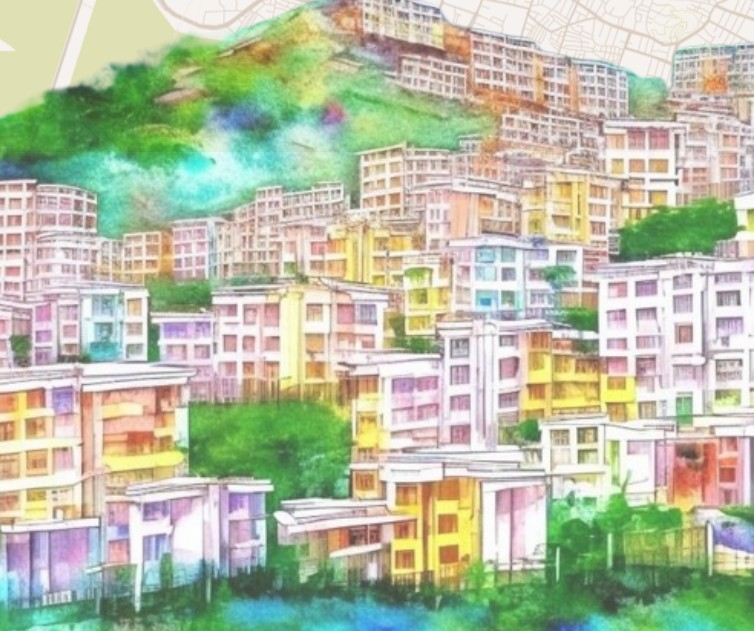
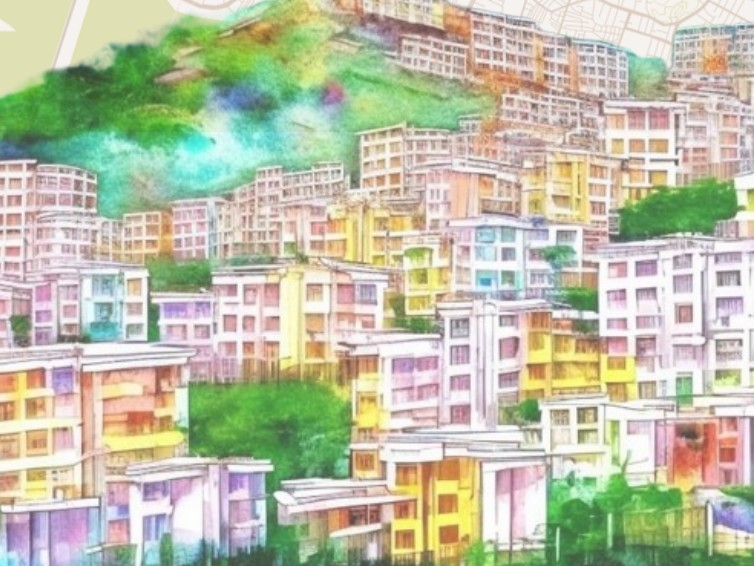
Rewrite About bio, declutter hero, fix grade cell and project crop
- Rewrite About section bio (EN + DE) per Shravya's new draft: cleaner
  intro, shorter middle paragraph, new paragraph about moving to
  Germany and volunteering. Title-cases "Urban and Regional Planner"
  and correctly capitalizes German nouns throughout.
- Declutter the hero: drop the redundant degree subtitle line (already
  covered in About/Education) and shorten the tagline to one
  statement, inspired by gruppef.com's minimal hero pattern.
- Split the Bachelor's grade into a primary value plus a smaller
  secondary "German system" note instead of cramming both into one
  string, so the grade column no longer wraps awkwardly.
- Recrop the Urban Uplift project thumbnail to the card's actual 4:3
  aspect ratio; the old crop was noticeably more square, so
  object-fit:cover was cutting more off top/bottom than on the other
  three cards.

diff --git a/src/app/data/portfolio.data.ts b/src/app/data/portfolio.data.ts
@@ -42,9 +42,7 @@ const EN: PortfolioContent = {
   footer: 'M.Sc. Environmental Planning · TU Berlin',
   hero: {
     eyebrow: '52.5170° N · 13.3889° E · Berlin',
-    title: 'M.Sc. Environmental Planning, Technische Universität Berlin',
-    tagline:
-      'Urban and regional planner working across GIS analysis, participatory urban development and climate adaptation, with one question underneath all of it: what makes a city healthy and livable for the people already living in it?',
+    tagline: 'Urban and Regional Planner, shaping cities that work for the people already living in them.',
     cta1: 'Get in touch',
     cta2: 'See experience'
   },
@@ -53,9 +51,9 @@ const EN: PortfolioContent = {
     caption: 'Berlin, 2026',
     photoFallback: 'Portrait coming soon',
     paras: [
-      'I am an urban and regional planner working at the intersection of spatial analysis and public participation. My training spans land-use planning, GIS analysis, participatory urban development and climate adaptation.',
-      'Currently I am a student assistant at the Institute of Urban and Regional Planning at TU Berlin, where I am completing an M.Sc. in Environmental Planning. Before Berlin I digitized planning and zoning regulation for jurisdictions across the United States and Australia, and built parcel-level GIS layers for land use and planning requirements.',
-      "My Bachelor's thesis took a participative approach to inner-city regeneration in Anantapur, India. I continue this work as a conference paper on community participation in regeneration processes."
+      'I am an Urban and Regional Planner, currently pursuing my M.Sc. in Environmental Planning at TU Berlin. My interests lie in spatial analysis, neighbourhood development and public participation, with a study focus spanning land-use planning, GIS analysis, participatory urban development and climate adaptation.',
+      'Alongside my studies, I work as a student assistant at the Institute of Urban and Regional Planning at TU Berlin. Before moving to Germany, I worked as a GIS analyst digitizing planning and zoning regulations across the US and Australia.',
+      "I moved to Germany in April 2025 and have been practicing my German ever since, working in restaurants, trying language tandems, and volunteering (you can read more about that further down this page). I'm highly motivated and a quick learner."
     ],
     facts: [
       { k: 'Based in', v: 'Berlin, Germany' },
@@ -135,7 +133,8 @@ const EN: PortfolioContent = {
         degree: 'Bachelor of Planning (Urban and Regional Planning)',
         school: 'School of Planning and Architecture, Vijayawada, India',
         note: 'Silver medalist, 2nd rank. Thesis: “A Participative Approach toward Inner City Regeneration: A Case Study of Anantapur Municipal Corporation”.',
-        grade: '9.08 / 10 (≈ 1.4, German grading system)'
+        grade: '9.08 / 10',
+        gradeNote: '≈ 1.4 (German system)'
       }
     ]
   },
@@ -276,9 +275,7 @@ const DE: PortfolioContent = {
   footer: 'M.Sc. Umweltplanung · TU Berlin',
   hero: {
     eyebrow: '52.5170° N · 13.3889° O · Berlin',
-    title: 'M.Sc. Umweltplanung, Technische Universität Berlin',
-    tagline:
-      'Stadt- und Regionalplanerin mit Schwerpunkten in GIS-Analyse, partizipativer Stadtentwicklung und Klimaanpassung, mit einer Frage im Hintergrund: Was macht eine Stadt für die Menschen, die schon dort leben, gesund und lebenswert?',
+    tagline: 'Stadt- und Regionalplanerin, die Städte mitgestaltet, die für die Menschen funktionieren, die schon dort leben.',
     cta1: 'Kontakt aufnehmen',
     cta2: 'Erfahrung ansehen'
   },
@@ -287,9 +284,9 @@ const DE: PortfolioContent = {
     caption: 'Berlin, 2026',
     photoFallback: 'Porträt folgt in Kürze',
     paras: [
-      'Ich bin Stadt- und Regionalplanerin und arbeite an der Schnittstelle von räumlicher Analyse und Bürgerbeteiligung. Meine Ausbildung umfasst Flächennutzungsplanung, GIS-Analyse, partizipative Stadtentwicklung und Klimaanpassung.',
-      'Derzeit bin ich studentische Mitarbeiterin am Institut für Stadt- und Regionalplanung der TU Berlin und absolviere dort meinen M.Sc. Umweltplanung. Vor Berlin habe ich Planungs- und Baunutzungsvorschriften für Kommunen in den USA und Australien digitalisiert und GIS-Layer auf Flurstücksebene für Flächennutzung und Planungsanforderungen aufgebaut.',
-      'Meine Bachelorarbeit verfolgte einen partizipativen Ansatz zur Innenstadterneuerung in Anantapur, Indien. Diese Arbeit führe ich als Konferenzbeitrag zur Bürgerbeteiligung in Erneuerungsprozessen weiter.'
+      'Ich bin Stadt- und Regionalplanerin und studiere derzeit meinen M.Sc. in Umweltplanung an der TU Berlin. Meine Interessen liegen in der räumlichen Analyse, der Nachbarschaftsentwicklung und der Bürgerbeteiligung, mit einem Studienschwerpunkt auf Flächennutzungsplanung, GIS-Analyse, partizipativer Stadtentwicklung und Klimaanpassung.',
+      'Neben dem Studium arbeite ich als studentische Mitarbeiterin am Institut für Stadt- und Regionalplanung der TU Berlin. Vor meinem Umzug nach Deutschland war ich als GIS-Analystin tätig und digitalisierte Planungs- und Baunutzungsvorschriften in den USA und Australien.',
+      'Ich bin im April 2025 nach Deutschland gezogen und übe seitdem mein Deutsch, unter anderem durch Arbeit in der Gastronomie, Sprachtandems und ehrenamtliches Engagement (mehr dazu weiter unten auf dieser Seite). Ich bin hochmotiviert und lerne schnell.'
     ],
     facts: [
       { k: 'Standort', v: 'Berlin, Deutschland' },
@@ -369,7 +366,8 @@ const DE: PortfolioContent = {
         degree: 'Bachelor of Planning (Stadt- und Regionalplanung)',
         school: 'School of Planning and Architecture, Vijayawada, Indien',
         note: 'Silbermedaille, 2. Platz des Jahrgangs. Abschlussarbeit: „A Participative Approach toward Inner City Regeneration: A Case Study of Anantapur Municipal Corporation“.',
-        grade: '9,08 / 10 (≈ 1,4 im deutschen Notensystem)'
+        grade: '9,08 / 10',
+        gradeNote: '≈ 1,4 (deutsches System)'
       }
     ]
   },

diff --git a/src/app/components/education/education.component.scss b/src/app/components/education/education.component.scss
@@ -1,6 +1,6 @@
 .edu-row {
   display: grid;
-  grid-template-columns: minmax(0, 190px) minmax(0, 1fr) minmax(0, 150px);
+  grid-template-columns: minmax(0, 190px) minmax(0, 1fr) minmax(0, 180px);
   gap: 32px;
   padding: 26px 0;
   border-top: 1px solid var(--rule);
@@ -12,4 +12,15 @@
 .row-date { font-size: 11px; letter-spacing: .16em; text-transform: uppercase; color: var(--olive-dark); font-weight: 600; font-variant-numeric: tabular-nums; padding-top: 5px; }
 .row-org { margin: 0 0 8px; font-size: 14px; color: var(--ink-60); line-height: 1.5; }
 .row-note { margin: 0; font-family: var(--font-heading); font-size: 15px; line-height: 1.55; color: var(--ink); max-width: 72ch; }
-.row-grade { font-family: var(--font-heading); font-size: 15px; color: var(--ink); font-variant-numeric: tabular-nums; padding-top: 4px; }
+.row-grade {
+  display: flex;
+  flex-direction: column;
+  gap: 3px;
+  font-family: var(--font-heading);
+  font-size: 15px;
+  color: var(--ink);
+  font-variant-numeric: tabular-nums;
+  padding-top: 4px;
+  white-space: nowrap;
+}
+.grade-note { font-family: var(--font-body); font-size: 11px; letter-spacing: .02em; color: var(--ink-60); white-space: nowrap; }

diff --git a/src/app/components/hero/hero.component.scss b/src/app/components/hero/hero.component.scss
@@ -39,23 +39,15 @@ section {
   max-width: 16ch;
 }
 
-.hero-band { height: 1px; background: var(--rule); max-width: 640px; margin: 0 0 22px; }
-
-.hero-subtitle {
-  font-family: var(--font-heading);
-  font-size: clamp(19px, 2.2vw, 24px);
-  line-height: 1.35;
-  color: var(--ink);
-  margin: 0 0 14px;
-  max-width: 34ch;
-}
+.hero-band { height: 1px; background: var(--rule); max-width: 640px; margin: 0 0 26px; }
 
 .hero-tagline {
-  font-size: 16px;
-  line-height: 1.65;
-  color: var(--ink-60);
-  margin: 0 0 38px;
-  max-width: 52ch;
+  font-family: var(--font-heading);
+  font-size: clamp(19px, 2.4vw, 26px);
+  line-height: 1.45;
+  color: var(--ink);
+  margin: 0 0 40px;
+  max-width: 40ch;
 }
 
 .hero-ctas { display: flex; gap: 14px; flex-wrap: wrap; }

diff --git a/src/app/data/portfolio.types.ts b/src/app/data/portfolio.types.ts
@@ -42,6 +42,8 @@ export interface EducationItem {
   school: string;
   note: string;
   grade: string;
+  /** Optional smaller secondary line under the grade, e.g. a German-system equivalent. */
+  gradeNote?: string;
 }
 
 export interface EducationContent {
@@ -123,7 +125,6 @@ export interface ContactContent {
 
 export interface HeroContent {
   eyebrow: string;
-  title: string;
   tagline: string;
   cta1: string;
   cta2: string;

diff --git a/src/app/components/education/education.component.html b/src/app/components/education/education.component.html
@@ -8,7 +8,10 @@
       <p class="row-org">{{ ed.school }}</p>
       <p class="row-note">{{ ed.note }}</p>
     </div>
-    <span class="row-grade">{{ ed.grade }}</span>
+    <span class="row-grade">
+      {{ ed.grade }}
+      <span *ngIf="ed.gradeNote" class="grade-note">{{ ed.gradeNote }}</span>
+    </span>
   </div>
 
   <div class="hr"></div>

diff --git a/src/app/components/hero/hero.component.html b/src/app/components/hero/hero.component.html
@@ -30,7 +30,6 @@
     </div>
     <h1 class="hero-title">Shravya<br />Achanala</h1>
     <div class="hero-band"></div>
-    <p class="hero-subtitle">{{ hero().title }}</p>
     <p class="hero-tagline">{{ hero().tagline }}</p>
     <div class="hero-ctas">
       <a href="#contact" class="btn">{{ hero().cta1 }}</a>
